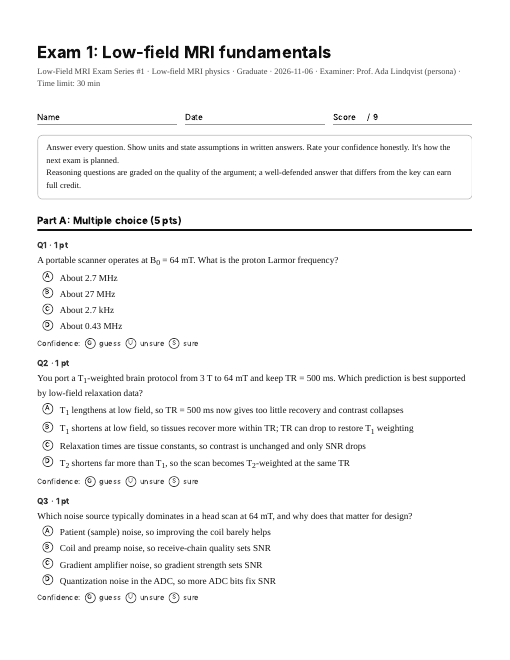
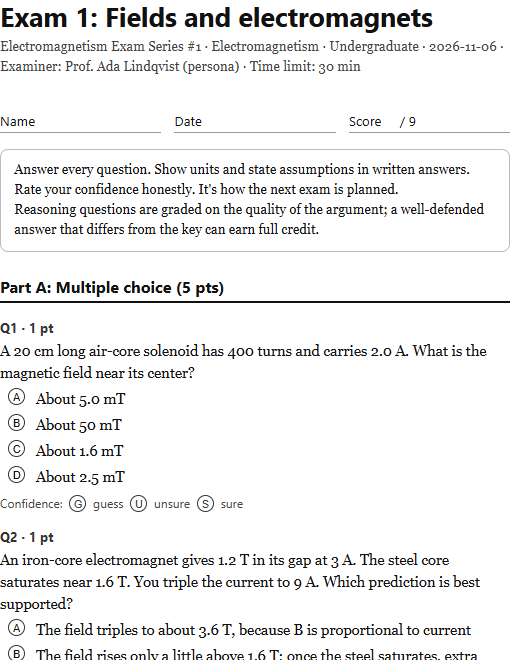
Electromagnetism example exam, syllabus and history; new screenshots; CI on Python 3.10 and 3.13 (3.9 no longer on GitHub runners)

Changed region(s): [[0.0, 0.0, 0.9706, 1.0]]

diff --git a/tests/test_scripts.py b/tests/test_scripts.py
@@ -92,8 +92,8 @@ class TestBuildCLI(unittest.TestCase):
             self.assertFalse(frag.lower().startswith("<!doctype"))
             self.assertNotIn("__EXAM_JSON__", frag)
             paper = (Path(d) / "paper.html").read_text()
-            self.assertNotIn("Larmor frequency\"", paper)  # no answer data in the paper
-            self.assertNotIn("42.58 MHz/T × 0.064", paper)
+            self.assertNotIn("Solenoid field\"", paper)  # no answer data in the paper
+            self.assertNotIn("n = 400 / 0.20 m", paper)
 
     def test_check_fails_on_invalid(self):
         with tempfile.NamedTemporaryFile("w", suffix=".json", delete=False) as f:
@@ -109,8 +109,8 @@ class TestPrint(unittest.TestCase):
         paper, key = build_exam.render_paper(ex), build_exam.render_key(ex)
         first_paper = paper.split("Q1 ·")[1][:300]
         first_key = key.split("Q1 ·")[1][:300]
-        self.assertIn("64 mT", first_paper)
-        self.assertIn("64 mT", first_key)
+        self.assertIn("400 turns", first_paper)
+        self.assertIn("400 turns", first_key)
         self.assertIn("G/U/S", key)
         self.assertIn("Confidence:", paper)
 
@@ -137,8 +137,8 @@ class TestPlanNext(unittest.TestCase):
 
     def test_plan_prioritises_confident_errors(self):
         p = plan_next.plan(plan_next.build_model(HISTORY), date(2026, 11, 6), 12, 0.9)
-        self.assertIn("Gradient design", p["confident_errors_first"])
-        self.assertEqual(p["review_concepts"][0], "Gradient design")
+        self.assertIn("Magnetic force", p["confident_errors_first"])
+        self.assertEqual(p["review_concepts"][0], "Magnetic force")
         b = p["blueprint"]
         self.assertEqual(b["review"] + b["new"] + b["transfer"], 12)
 

diff --git a/tests/ui_test.py b/tests/ui_test.py
@@ -22,10 +22,10 @@ with sync_playwright() as p:
         assert pg.locator("#timer").inner_text().startswith("29:") or pg.locator("#timer").inner_text().startswith("30:"), pg.locator("#timer").inner_text()
         # q1 correct+sure, q2 wrong+sure (confident error), q3 correct, q4 wrong, leave q5 blank, answer q6
         pg.click("#q-q1 .opt:has-text('2.7 MHz')"); pg.click("#q-q1 .conf button[data-k=sure]")
-        pg.click("#q-q2 .opt:has-text('lengthens at low field')"); pg.click("#q-q2 .conf button[data-k=sure]")
-        pg.click("#q-q3 .opt:has-text('Coil and preamp')")
-        pg.click("#q-q4 .opt:has-text('~23')")
-        pg.fill("#q-q6 textarea", "Signal goes as B0 squared; coil noise dominates so SNR ~ B0^(7/4).")
+        pg.click("#q-q2 .opt:has-text('triples to about 3.6 T')"); pg.click("#q-q2 .conf button[data-k=sure]")
+        pg.click("#q-q3 .opt:has-text('Narrow the air gap')")
+        pg.click("#q-q4 .opt:has-text('150 W')")
+        pg.fill("#q-q6 textarea", "NI = H_i l_i + H_g g, so B = mu0 N I / (g + l_i/mu_r); the gap dominates.")
         assert "5/6" in pg.locator("#progtxt").inner_text()
         assert pg.locator("#q-q1 .hint-txt.hidden").count() == 1
         pg.click("#q-q1 .hint-btn"); assert pg.locator("#q-q1 .hint-txt.hidden").count() == 0

diff --git a/README.md b/README.md
@@ -4,7 +4,7 @@ A Claude skill that writes hard practice exams from your syllabus, every few day
 
 [![CI](../../actions/workflows/ci.yml/badge.svg)](../../actions/workflows/ci.yml)
 ![License: MIT](https://img.shields.io/badge/license-MIT-blue.svg)
-![Python 3.9+](https://img.shields.io/badge/python-3.9%2B-blue.svg)
+![Python 3.10+](https://img.shields.io/badge/python-3.10%2B-blue.svg)
 
 <p align="center">
   <img src="docs/images/results-light.png" width="62%" alt="Results page: score ring, confidence check, color-coded answers">
@@ -34,13 +34,13 @@ Take it in the browser (timed, autosaved, auto-graded, works on a phone) or prin
 
 Or copy `skills/exam-coach/` into `~/.claude/skills/`.
 
-Needs Python 3.9+ (standard library only). PDF export also needs Playwright + Chromium.
+Needs Python 3.10+ (standard library only). PDF export also needs Playwright + Chromium.
 
 ## Use
 
 Just ask:
 
-> Here's my syllabus for *Low-Field MRI Physics*. Every 3 days, give me a 40-minute exam (10 multiple choice, 2 short reasoning, 1 long reasoning) written by an MR hardware physicist who's strict about units. Make it hard.
+> Here's my syllabus for *Electromagnetism*. Every 3 days, give me a 40-minute exam (10 multiple choice, 2 short reasoning, 1 long reasoning) written by a physicist who builds electromagnets and is strict about units. Make it hard.
 
 > Plan exam #4 from my history.json, printable with an answer key.
 

diff --git a/CONTRIBUTING.md b/CONTRIBUTING.md
@@ -5,7 +5,7 @@ Thanks for helping make practice exams teach better.
 ## Ground rules
 
 - **Learning first.** Changes to the loop (scheduling, difficulty, feedback) should point to evidence or to a tool that demonstrably does it well. Add the reference to `skills/exam-coach/references/learning-science.md`.
-- **No runtime dependencies.** Scripts use only the Python standard library (3.9+); the exam page uses no external scripts, fonts or CDNs.
+- **No runtime dependencies.** Scripts use only the Python standard library (3.10+); the exam page uses no external scripts, fonts or CDNs.
 - **Explain the why in SKILL.md.** Claude follows reasons better than rules in capitals.
 - **Never fabricate sources** in examples or tests.
 
